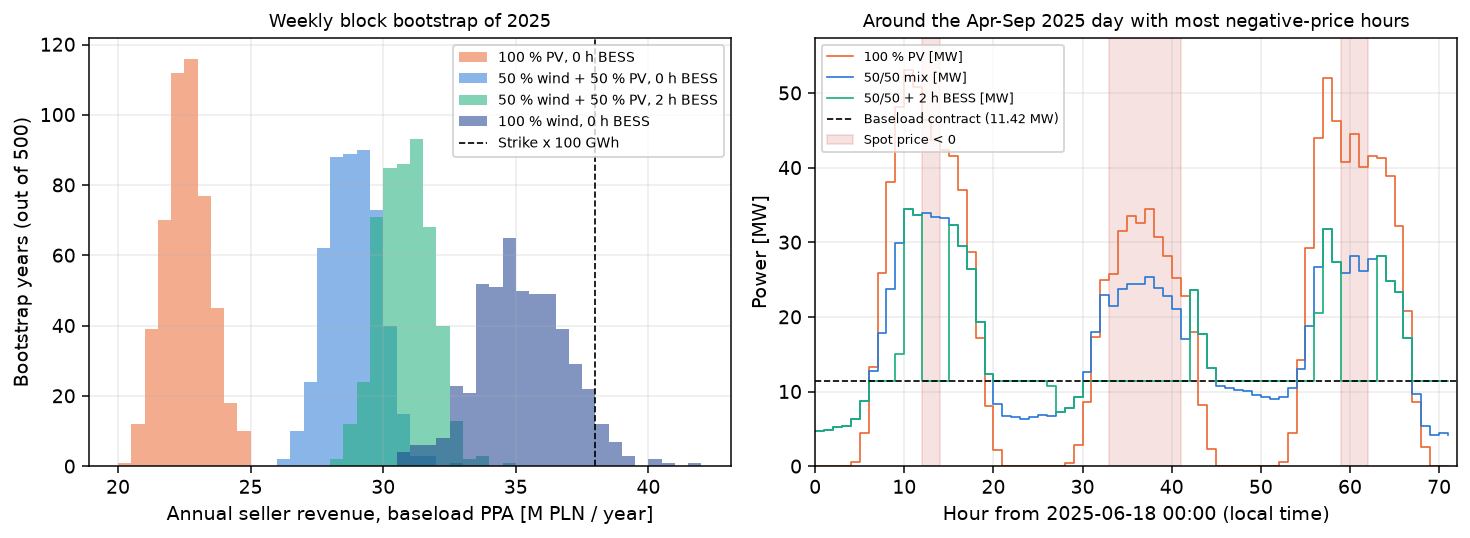
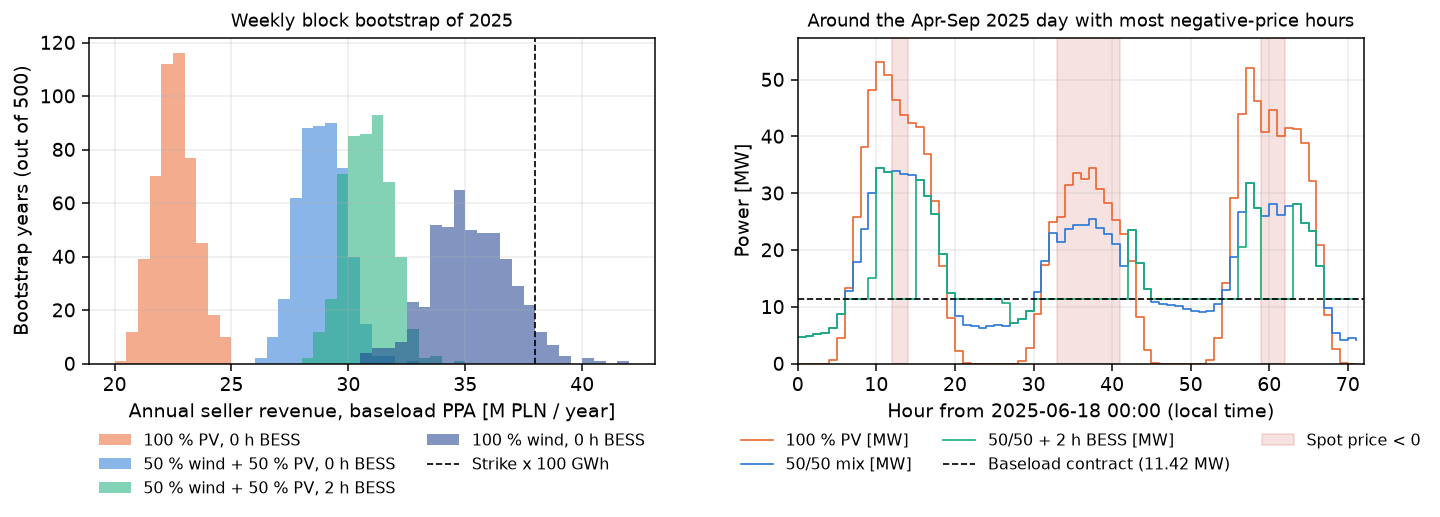
Charts: legends off the data, larger legend and label text
The bootstrap and example-day legends of cashflow_distribution and the P50/P90
legend of shaping_cost_mix move under their axes (the strike line ran through
the first, the second covered the PV peak, the third the P90 lines). Legend and
category text of all four README charts is 8.5-9 pt, readable when GitHub
scales the images down. Layout only; results and docs/data.js unchanged.

Changed region(s): [[0.4375, 0.0, 1.0, 0.9903], [0.0, 0.0, 0.5, 0.9903]]

diff --git a/src/cppa_shaping/pipeline.py b/src/cppa_shaping/pipeline.py
@@ -296,7 +296,7 @@ def generate_plots(
     ax1.set_xlim(0, 100)
     ax1.set_ylim(0, None)
     ax1.grid(alpha=0.25)
-    ax1.legend(loc="upper right", frameon=True, fontsize=8)
+    ax1.legend(loc="upper right", frameon=True, fontsize=9)
 
     ax2.plot(w_pct, sub[0]["seller_p50_pln_mwh"], color=ORANGE, lw=1.4, label="P50 (0 h)")
     ax2.plot(w_pct, sub[0]["seller_p90_pln_mwh"], color=RED, lw=1.2, ls="--", label="P90 conservative (0 h)")
@@ -308,14 +308,14 @@ def generate_plots(
     ax2.set_title("Bootstrap P50 and P90 seller revenue", fontsize=9.5)
     ax2.set_xlim(0, 100)
     ax2.grid(alpha=0.25)
-    ax2.legend(loc="lower right", frameon=True, fontsize=7.5)
+    ax2.legend(loc="upper center", bbox_to_anchor=(0.5, -0.2), ncol=2, frameon=False, fontsize=8.5)
 
     ax3.set_xlabel("Onshore wind share in hybrid portfolio [%]")
     ax3.set_ylabel("Hourly 24/7 CFE match [%]")
     ax3.set_title("24/7 hourly CFE score (diamond = maximum)", fontsize=9.5)
     ax3.set_xlim(0, 100)
     ax3.grid(alpha=0.25)
-    ax3.legend(loc="lower right", frameon=True, fontsize=8)
+    ax3.legend(loc="lower right", frameon=True, fontsize=9)
     _save(fig, img_dir / "shaping_cost_mix.png")
 
     # --- 2. docs/img/settlement_waterfall.png ---
@@ -336,13 +336,13 @@ def generate_plots(
     ax_l.bar(x_a, shape_net, width=0.5, bottom=net, color=ORANGE, label="Shaping cost (after curtailment and BESS)")
     ax_l.bar(x_a, claw, width=0.5, bottom=net + shape_net, color=RED, label="Negative-price clawback")
     ax_l.axhline(strike_pln_mwh, color="k", ls="--", lw=0.9, label=f"Strike ({strike_pln_mwh:.0f} PLN/MWh)")
-    ax_l.set_xticks(x_a, labels, fontsize=7.5)
+    ax_l.set_xticks(x_a, labels, fontsize=8.5)
     ax_l.set_ylabel("PLN per contracted MWh")
     ax_l.set_ylim(0, strike_pln_mwh * 1.32)
     ax_l.set_title("Where the 380 PLN/MWh strike goes (2025)", fontsize=9.5)
     ax_l.grid(axis="y", alpha=0.25)
     ax_l.set_axisbelow(True)
-    ax_l.legend(loc="upper center", ncol=2, frameon=True, fontsize=7)
+    ax_l.legend(loc="upper center", ncol=2, frameon=True, fontsize=8.5)
 
     for w, col in ((0.0, ORANGE), (1.0, BLUE)):
         tag = f"w{int(round(w * 100)):03d}"
@@ -356,7 +356,7 @@ def generate_plots(
     ax_r.set_ylabel("Shape term vs path mean [PLN/MWh]")
     ax_r.set_title("Bootstrap years: volume vs capture discount", fontsize=9.5)
     ax_r.grid(alpha=0.25)
-    ax_r.legend(loc="best", frameon=True, fontsize=8)
+    ax_r.legend(loc="best", frameon=True, fontsize=9)
     _save(fig, img_dir / "settlement_waterfall.png")
 
     # --- 3. docs/img/negative_price_clauses.png ---
@@ -372,7 +372,7 @@ def generate_plots(
     ax_c1.set_xlim(0, 100)
     ax_c1.set_ylim(0, None)
     ax_c1.grid(alpha=0.25)
-    ax_c1.legend(loc="upper right", frameon=True, fontsize=8)
+    ax_c1.legend(loc="upper right", frameon=True, fontsize=9)
 
     windows = list(COMPARISON_WINDOWS)
     x_m = np.arange(len(KEY_MIXES))
@@ -389,7 +389,7 @@ def generate_plots(
     ax_c2.set_title("Zero-price floor uplift by window", fontsize=9.5)
     ax_c2.grid(axis="y", alpha=0.25)
     ax_c2.set_axisbelow(True)
-    ax_c2.legend(loc="upper right", frameon=True, fontsize=8)
+    ax_c2.legend(loc="upper right", frameon=True, fontsize=9)
     _save(fig, img_dir / "negative_price_clauses.png")
 
     # --- 4. docs/img/cashflow_distribution.png ---
@@ -407,7 +407,7 @@ def generate_plots(
     ax_d1.set_ylabel(f"Bootstrap years (out of {path_revenue.shape[1]})")
     ax_d1.set_title("Weekly block bootstrap of 2025", fontsize=9.5)
     ax_d1.grid(alpha=0.25)
-    ax_d1.legend(loc="upper right", frameon=True, fontsize=7.5)
+    ax_d1.legend(loc="upper center", bbox_to_anchor=(0.5, -0.17), ncol=2, frameon=False, fontsize=8.5)
 
     sl = _day_windows(df_ref, 3)["spring"]
     spot = df_ref["spot_pln_mwh"].to_numpy()
@@ -431,7 +431,7 @@ def generate_plots(
     ax_d2.set_ylim(0, top)
     ax_d2.set_title("Around the Apr-Sep 2025 day with most negative-price hours", fontsize=9.5)
     ax_d2.grid(alpha=0.25)
-    ax_d2.legend(loc="upper left", frameon=True, fontsize=7)
+    ax_d2.legend(loc="upper center", bbox_to_anchor=(0.5, -0.17), ncol=3, frameon=False, fontsize=8.5)
     _save(fig, img_dir / "cashflow_distribution.png")
 
 
